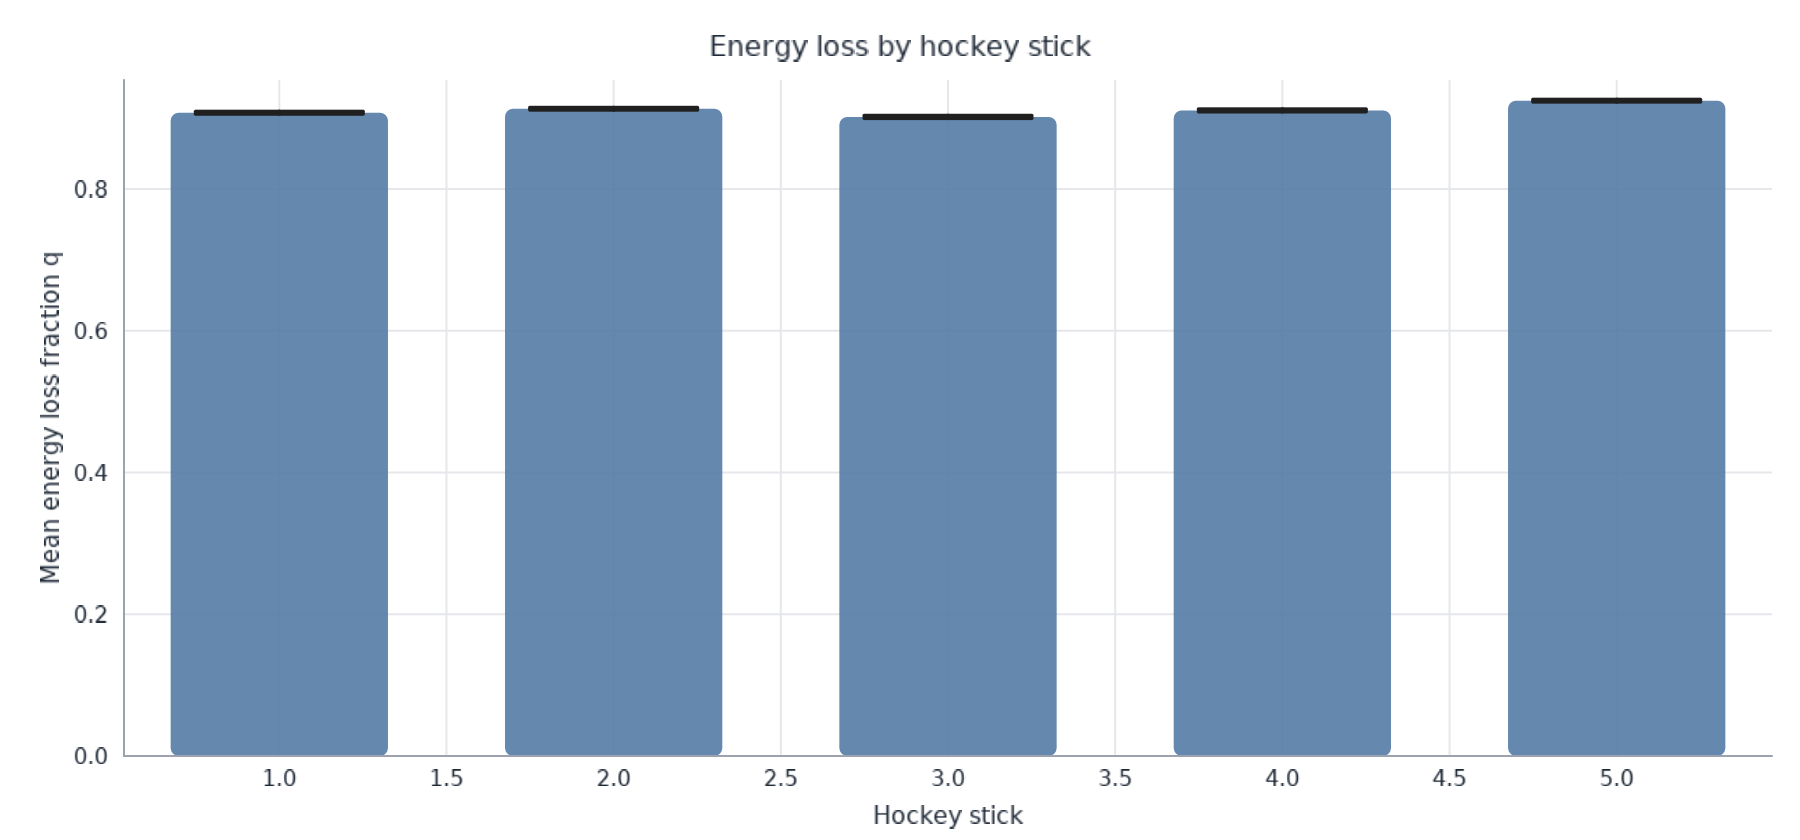
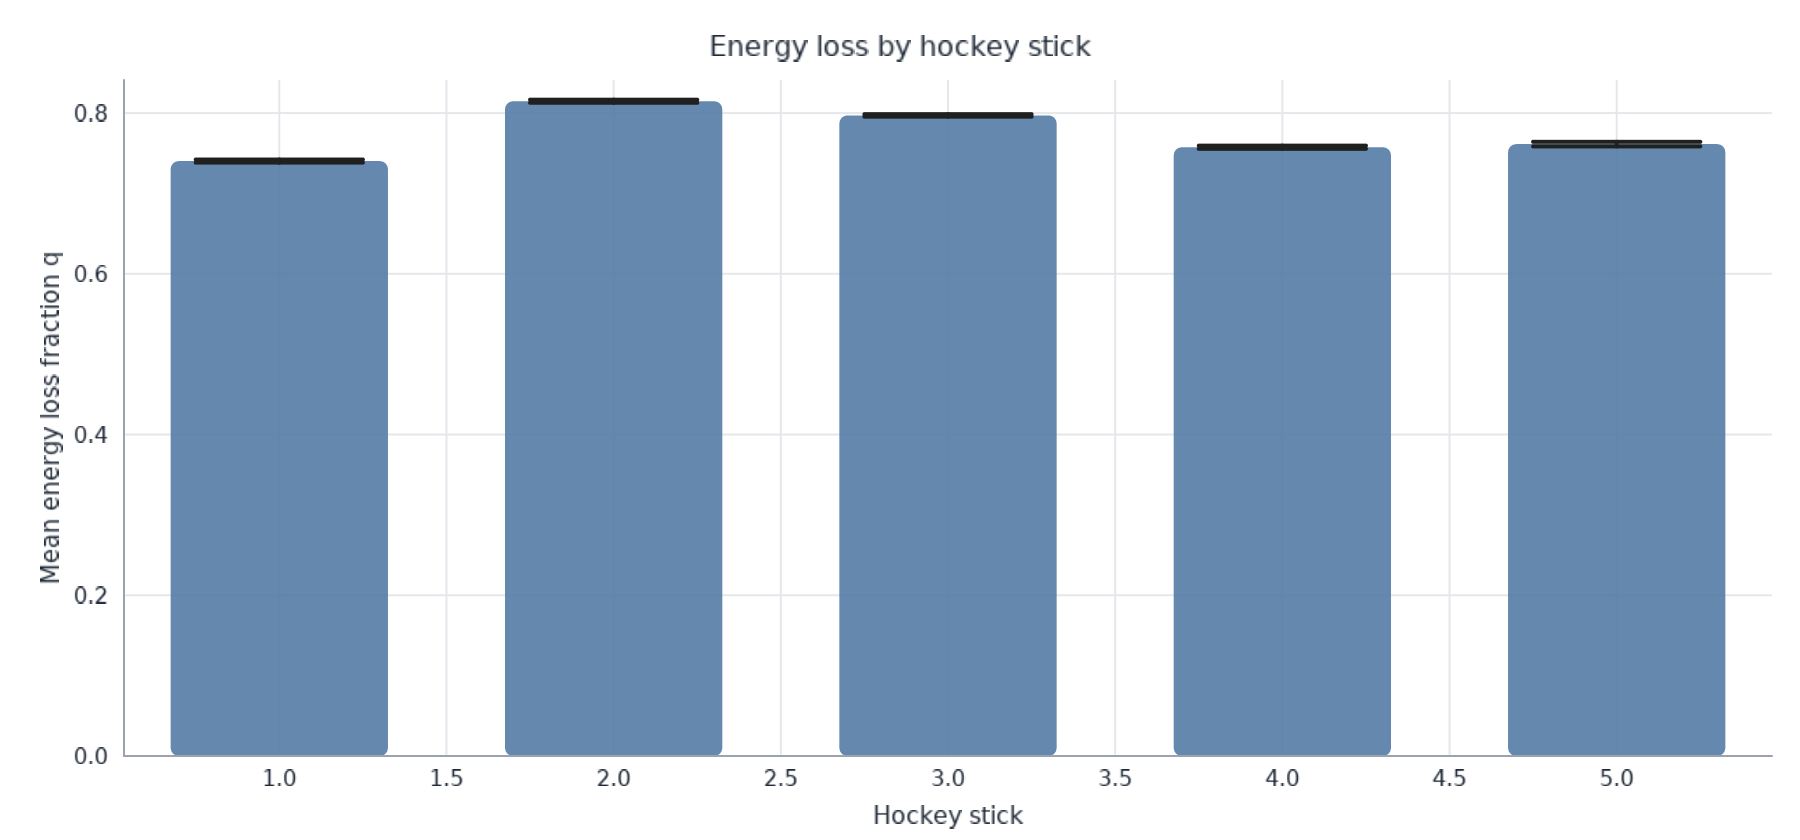
added radii

diff --git a/src/dataverwerking_dynamics_py/__init__.py b/src/dataverwerking_dynamics_py/__init__.py
@@ -13,10 +13,12 @@ MEASUREMENT_NRS = [4670,4671,4672,4673,4675,4676,4680,4681,4682,4683,4685,4687,4
 #Placeholder values
 HOCKEY_STICK_INERTIA_MOMENTS = [0.16926240240330787,0.18367484458814398,0.17093826777363766,0.17563069081056104,0.1876969214769355]
 HOCKEY_STICK_INERTIA_MOMENT_ERRORS = [0.005205745715940083, 0.005648079287620812, 0.005257176004501276,0.0054011864454451865, 0.005771533389105767]
+HOCKEY_STICK_RADIUS = [0.421,0.42,0.409,0.405,0.406]
 
 ## Constants
-BALL_WEIGHT = 165e-3 # in kg; gebasseerd op gemiddelde gewicht volgens internet
-BALL_WEIGHT_ERROR = 5e-3 # in kg
+BALL_WEIGHTS = np.array([160e-3,157e-3,155e-3,161e-3,157e-3,155e-3]) # in kg
+BALL_WEIGHT = BALL_WEIGHTS.mean()
+BALL_WEIGHT_ERROR = 1e-3/np.sqrt(BALL_WEIGHTS.size) # in kg
 GRAVITATIONAL_ACCELERATION = 9.81 # in m/s^2
 
 ## Video related constants
@@ -33,8 +35,7 @@ ROLLING_MEAN_N = 5
 FPS = 1200
 
 ## Placeholders
-RADIUS = 85.75e-2 # in m
-RADIUS_ERROR = 0.5e-3 # in m
+RADIUS_ERROR = 2e-3 # in m
 
 def main() -> None:
      convert_raw_data(os.getcwd())
@@ -59,20 +60,19 @@ def convert_raw_data(project_dir):
         ## open csv to note results.
         with open(f"{project_dir}\\output\\output_meting_{metingnr}.csv", 'w+') as f:
             writer = csv.writer(f, lineterminator="\n")
-            header = ["q","k_before","k_after","u_height","k_stick","q_error", "k_before_error", "k_after_error", "u_height_error", "k_stick_error"]
+            header = ["q","k_before","k_after","k_stick","q_error", "k_before_error", "k_after_error", "k_stick_error"]
             writer.writerow(header)
 
             ## loop over the measurements and calculate q, write the results to the csv for later processing.
             for i in range(amount_measurements):
-                q, k_before, k_after, u_height, k_stick, q_error, k_before_error, k_after_error, u_height_error, k_stick_error = get_q(project_dir, metingnr, start_measurement_index + i, i+1)
+                q, k_before, k_after, k_stick, q_error, k_before_error, k_after_error, k_stick_error = get_q(project_dir, metingnr, start_measurement_index + i, i+1)
                 print(f"""Measurement {MEASUREMENT_NRS[start_measurement_index + i]}:
     Ratio of energy lost: {q}
     Kinetic energy before collision: {k_before} joule
     Kinetic energy after collision: {k_after} joule
     Hockey stick rotation energy: {k_stick} joule
-    Ball height energy energy: {u_height} joule\n
                     """)
-                writer.writerow([q, k_before, k_after, u_height, k_stick, q_error, k_before_error, k_after_error, u_height_error, k_stick_error])
+                writer.writerow([q, k_before, k_after, k_stick, q_error, k_before_error, k_after_error, k_stick_error])
 
 
 
@@ -137,43 +137,44 @@ def get_q(project_dir, stick_nr : int, measurement_index : int, measurement_nr: 
     ## Get the kinetic energy of the ball.
     ## We use a linear fit for the velocity and then the kinetic energy formula to determine the energy.
     ## Summing in quadrature of with same uncertainty doesnt change the uncertainty.
-    ball_error = TRACKING_ACCURACY_METERS
-    ball_velocity, ball_velocity_error = get_velocities(ball_data_after["x"], ball_error)
+    ball_error = np.sqrt(2)* TRACKING_ACCURACY_METERS
+    ball_velocity, ball_velocity_error = get_velocities(np.sqrt(ball_data_after["x"]**2 + ball_data_after["y"]**2) , ball_error)
 
     ## K = 1/2mv^2
     ball_kinetic_energy = 0.5 * BALL_WEIGHT * ball_velocity**2
     ball_kinetic_energy_error = ball_kinetic_energy * np.sqrt((BALL_WEIGHT_ERROR/BALL_WEIGHT)**2 + (2*ball_velocity_error/ball_velocity)**2)
 
 
-    ## Calculate the energy going to height.
-    ## Videos are inverted and y goes down so we take the difference the same way as normal.
-    ## take the max since y velocity isnt taking in to consideration for kinetic energy after.
-    rolling_mean_height_after = ball_data_after["y"].rolling_mean(window_size = ROLLING_MEAN_N).drop_nulls()
-    rolling_mean_height_before = ball_data_before["y"].rolling_mean(window_size = ROLLING_MEAN_N).drop_nulls()
-    height_difference =  cast(float,(rolling_mean_height_after - cast(float, rolling_mean_height_before[-1])).max())
-    ## U = m*g*h
-    height_energy_gained = BALL_WEIGHT * GRAVITATIONAL_ACCELERATION * height_difference
-    height_energy_gained_error = np.sqrt(
-        (GRAVITATIONAL_ACCELERATION
-         * height_difference * BALL_WEIGHT_ERROR)**2
-        + (BALL_WEIGHT
-           * GRAVITATIONAL_ACCELERATION
-           * ball_velocity_error)**2
-    )
+    # ## Calculate the energy going to height.
+    # ## Videos are inverted and y goes down so we take the difference the same way as normal.
+    # ## take the max since y velocity isnt taking in to consideration for kinetic energy after.
+    # rolling_mean_height_after = ball_data_after["y"].rolling_mean(window_size = ROLLING_MEAN_N).drop_nulls()
+    # rolling_mean_height_before = ball_data_before["y"].rolling_mean(window_size = ROLLING_MEAN_N).drop_nulls()
+    # height_difference =  cast(float,(rolling_mean_height_after - cast(float, rolling_mean_height_before[-1])).max())
+    # ## U = m*g*h
+    # height_energy_gained = BALL_WEIGHT * GRAVITATIONAL_ACCELERATION * height_difference
+    # height_energy_gained_error = np.sqrt(
+    #     (GRAVITATIONAL_ACCELERATION
+    #      * height_difference * BALL_WEIGHT_ERROR)**2
+    #     + (BALL_WEIGHT
+    #        * GRAVITATIONAL_ACCELERATION
+    #        * ball_velocity_error)**2
+    # )
 
     ## Calculate the total velocity of the hockey stick, by taking the pythagorean sum of the components.
     hockey_stick_place = (hockey_data["X"] ** 2 + hockey_data["Y"] ** 2).sqrt()
     hockey_stick_place_error = TRACKING_ACCURACY_METERS
     ## Using the small angle aproximation.
-    hockey_stick_angle = hockey_stick_place/RADIUS
-    hockey_stick_angle_error = hockey_stick_place_error/RADIUS
+    radius = HOCKEY_STICK_RADIUS[stick_nr-1]
+    hockey_stick_angle = hockey_stick_place/radius
+    hockey_stick_angle_error = hockey_stick_angle* np.sqrt( (hockey_stick_place_error/hockey_stick_place)**2 + (RADIUS_ERROR/radius)**2)
 
 
     ## use a linear fit to get the angular velocity. The slope is the angular velocity.
     def get_angular_velocity():
         ## Get the time and weights for the model.
         time = np.array([i/FPS for i in range(hockey_stick_angle.len())])
-        angle_weights = np.array([1/hockey_stick_angle_error for _ in range(hockey_stick_angle.len())])
+        angle_weights = 1/ hockey_stick_angle_error.to_numpy()
 
         ## Create the model, function is expected to be linear.
         angular_velocity_model = Model(linear)
@@ -197,11 +198,10 @@ def get_q(project_dir, stick_nr : int, measurement_index : int, measurement_nr: 
     hockey_stick_rotation_energy_error = hockey_stick_rotation_energy * np.sqrt((2*angular_velocity_error/angular_velocity)**2 + (inertia_moment_error/inertia_moment_stick)**2)
 
     ## total energy after is the sum of all the different kinds of energy, the error could cancel partially so we add in quadrature.
-    total_energy_after = ball_kinetic_energy+hockey_stick_rotation_energy + height_energy_gained
+    total_energy_after = ball_kinetic_energy+hockey_stick_rotation_energy
     total_energy_after_error = np.sqrt(
         ball_kinetic_energy_error**2
         + hockey_stick_rotation_energy_error**2
-        + height_energy_gained_error**2
     )
 
     ## get the error for q.
@@ -211,12 +211,10 @@ def get_q(project_dir, stick_nr : int, measurement_index : int, measurement_nr: 
         1 - total_energy_after / energy_before,
         energy_before,
         ball_kinetic_energy,
-        height_energy_gained,
         hockey_stick_rotation_energy,
         q_error,
         energy_before_error,
         ball_kinetic_energy_error,
-        height_energy_gained_error,
         hockey_stick_rotation_energy_error,
     )
 
